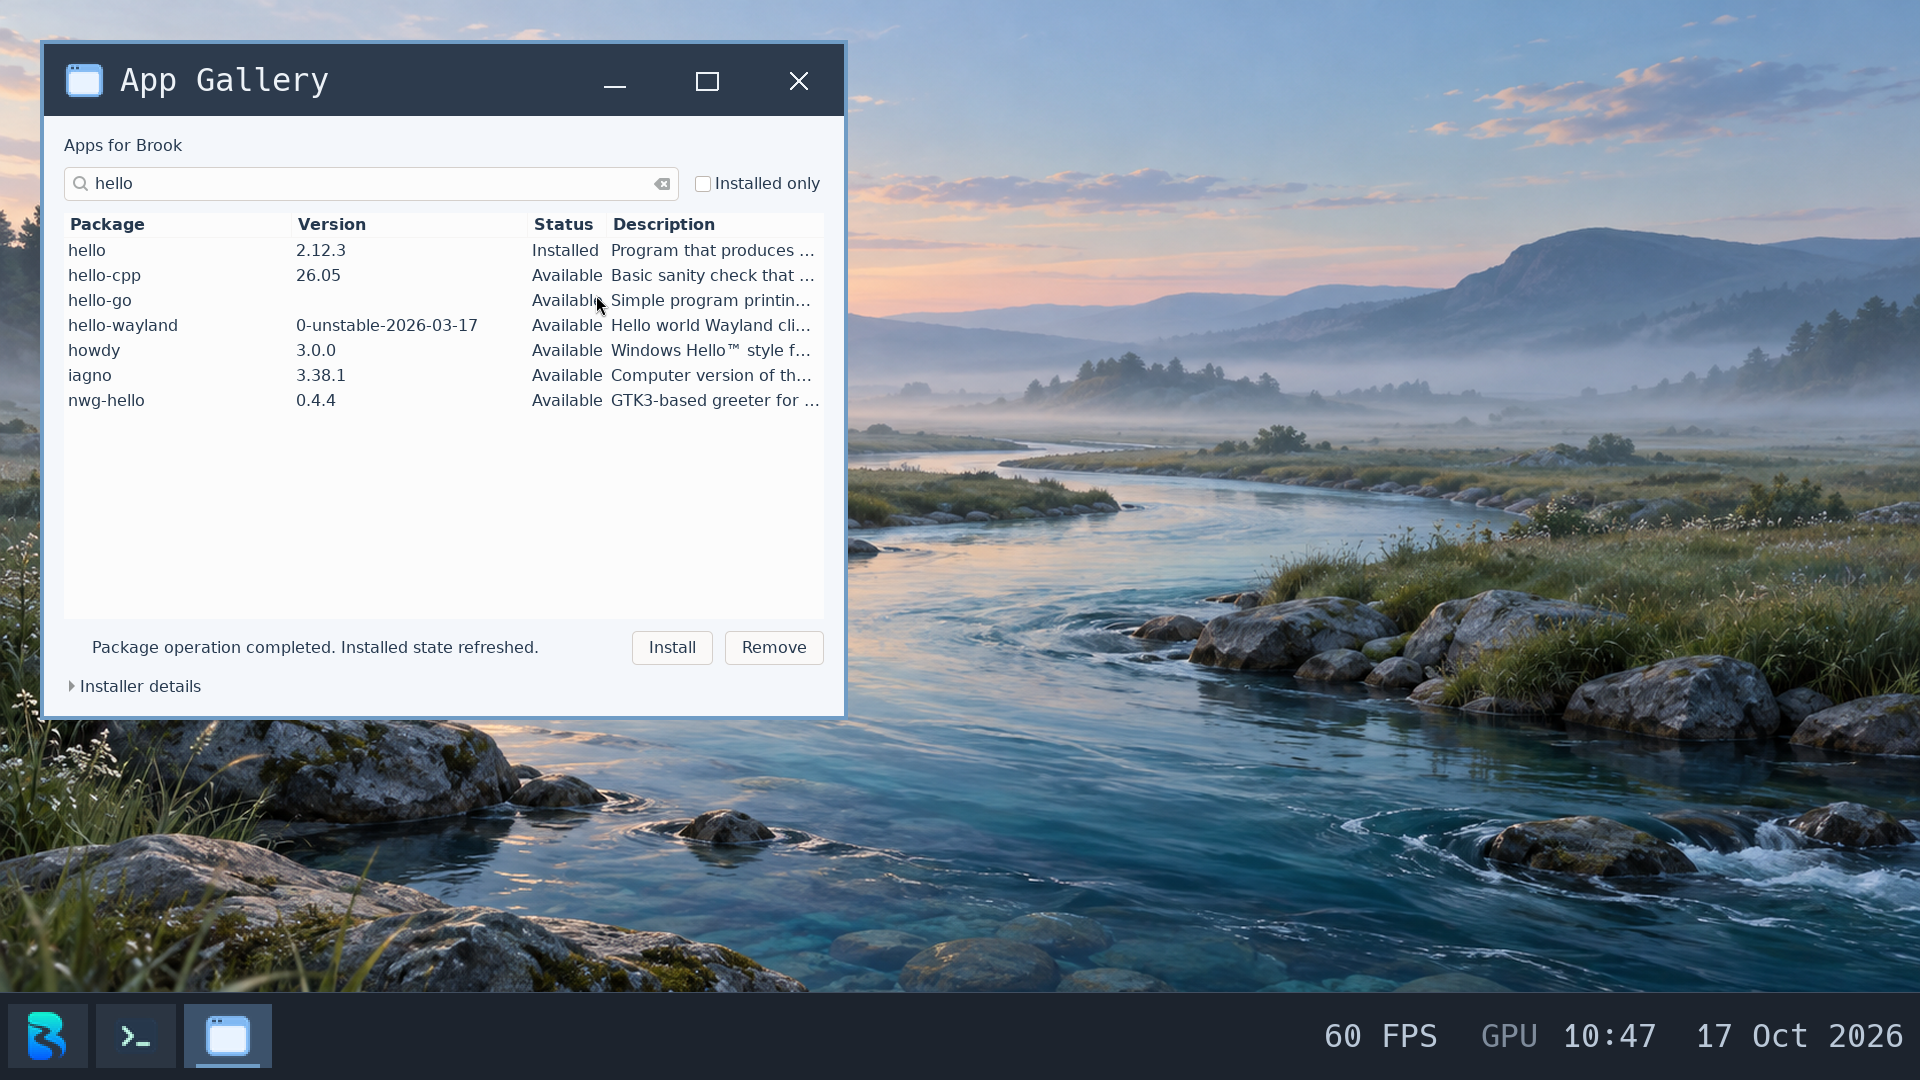
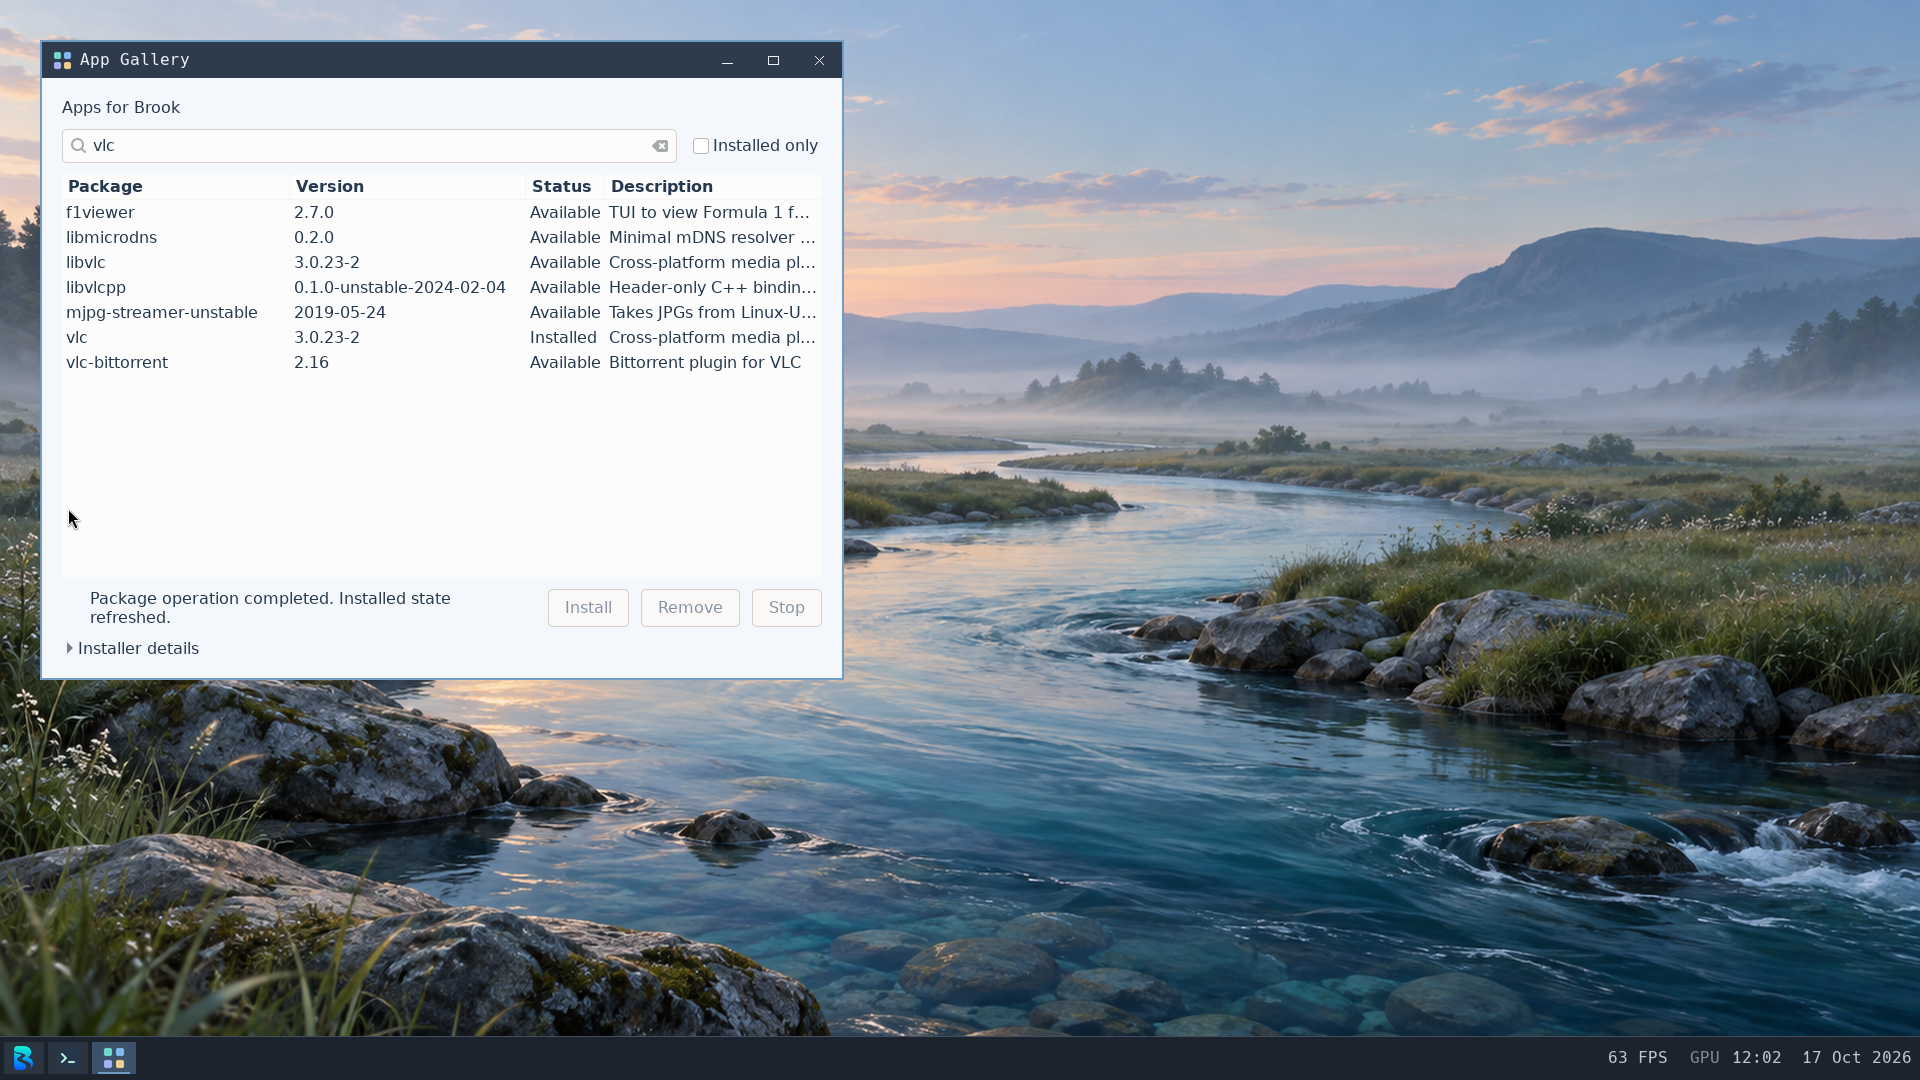
Validate fresh Gallery installs and require application binaries for shortcuts

diff --git a/docs/app-gallery.md b/docs/app-gallery.md
@@ -8,7 +8,7 @@ the matching count tells the user when to refine the search. Installer output
 streams into a bounded details panel, and completion reloads the manifest.
 Packages installed locally but absent from the index remain discoverable.
 
-![App Gallery after installing hello](images/brook_app_gallery_1080.png)
+![App Gallery after installing VLC on fresh disks](images/brook_app_gallery_1080.png)
 
 The image is an unscaled native 1920×1080 completed-frame capture. It shows a
 real install from the binary cache, rather than a mockup.
@@ -52,8 +52,8 @@ In Brook, use its installed App Gallery entry, or:
 run /nix/profile/bin/brook-run /nix/bin/brook-gallery
 ```
 
-The current live tests staged the new package closure onto isolated existing
-disks. Full fresh-image menu/icon deployment remains to be exercised.
+Initial live tests staged the new package closure onto isolated existing disks.
+Fresh data/Nix image deployment was subsequently checked below.
 
 ## Acceptance on 17 October 2026
 
@@ -145,12 +145,54 @@ discarding also retain earlier limitations. The syscall does not claim to fix
 those wider signal semantics. Its partial-size contract follows the
 [Linux implementation](https://raw.githubusercontent.com/torvalds/linux/master/kernel/signal.c).
 
+## Fresh disks and larger packages
+
+On 17 October, the repository's `create_experiment_disks.py` built new 32 GiB
+Nix and 8 GiB data images with a 481-path profile and current installer sources,
+without game data. The acceptance boot disk and matched kernel/modules were
+reused; this was not a rebuild of the entire boot disk. Session
+`793aa3cdeed44930ad08184fe49b2b86` launched Gallery from its generated menu
+entry, with its icon on the launcher, taskbar and native caption. The empty
+manifest correctly reported zero registered packages; bundled components are
+not yet registered as removable packages.
+
+Gallery installed stock VLC 3.0.23-2 from the HTTPS cache. Store entries grew
+from 481 to 851; completion was observed within 329 seconds (an upper bound,
+not an exact timed benchmark). The executable reported its version. The stock
+package lacks OSS options required by `brook-vlc`; its UI opened and closed
+cleanly with explicit `--aout=dummy`. `--no-audio` alone still initializes
+PulseAudio and hit the previously observed mutex-unlock abort. Registration
+persisted across reboot. New shortcut requirements check the real VLC,
+Ladybird and LibreOffice binaries as well as their wrappers; the rebooted menu
+hid absent Ladybird while retaining installed applications.
+
+A short 2-second CPU capture contained 1,613 samples across eight CPUs: 87.5%
+idle, 4.4% in block-I/O leaf routines and 1.9% in TLB barriers. This is one
+phase of the installation, not wall-time attribution. The profile and
+unscaled captures remain under ignored `build/workloads/gallery-fresh-20261017/`.
+
+Session `52efde0bc3d641e994de61a7d1068f93` then installed the existing
+`vlc-brook-native` build through Gallery using its exported local cache and an
+added index row. It played the attributed 720p Big Buck Bunny fixture on eight
+vCPUs/4 GiB, with advancing video and nonzero captured OSS PCM. Pause produced
+no active audio stream; resume restored nonzero PCM. Both manifest rows were
+UID 1000 and the mutation lock was absent. Closing the player reproduced a
+known worker page fault and left eleven VLC tasks blocked. After preserving
+evidence, maintenance SIGKILL reclaimed the group. Both runs passed checked
+shutdown and all three offline filesystem checks. Playback success does not
+establish clean close or simultaneous-install stability.
+
+The compatibility cache/index and video were supplied as explicit test inputs
+after the initial fresh-image run; they are not automatically included by the
+default disk script. Stock/native package file ownership and removal conflicts
+remain part of the shared-profile work below.
+
 ## Remaining work
 
 - Disk-full and interrupted-install recovery across the whole profile. Atomic
   manifest publication alone does not transact symlinks and launcher metadata.
 - Dependency/shared-file removal ownership and base-image package registration.
-- Successful repair, large-package installs, launcher icon/menu refresh and
-  complete fresh-image/reboot acceptance through the Gallery.
+- Large-application repair/removal, icons for packages installed in the guest,
+  automatic compatibility-package sources and broader fresh-image acceptance.
 - Persisted desktop themes in GTK, richer app descriptions/icons, and broader
   real-application acceptance. Current styling is a first readable interface.

diff --git a/README.md b/README.md
@@ -61,7 +61,7 @@ the table distinguishes tested behavior from remaining limitations.
 | [Qalculate!](https://qalculate.github.io/) | — | ✅ Working | GTK3 calculator via Wayland (CSD decorations) |
 | [GIMP](https://www.gimp.org/) | 3.0.8 | ⚠ Experimental | Painting, XCF save/reopen and PNG export/import verified; Brook-owned legacy profile, settings and saved images verified across reboot; optional plugin discovery still has faults |
 | [LibreOffice](https://www.libreoffice.org/) | 25.8.5.2 | ⚠ Experimental | Writer opens via Wayland and edits a real document; startup is slow and window-close behavior needs work |
-| [VLC](https://www.videolan.org/vlc/) | 3.0.23-2 | ⚠ Experimental | Brook compatibility build installs through guest `nix-install`; 720p video and OSS audio verified; window-close/SMP stability remains under investigation |
+| [VLC](https://www.videolan.org/vlc/) | 3.0.23-2 | ⚠ Experimental | Gallery install, 720p video and captured OSS audio passed on eight vCPUs; close still faults a worker and requires cleanup |
 
 ## Recent progress
 
@@ -101,6 +101,7 @@ the table distinguishes tested behavior from remaining limitations.
   packages from the shared desktop profile. A real install, executable launch,
   reboot persistence and removal passed as Brook. Stop and close-during-install
   finish the active archive safely; cancelled downloads can be reused on retry.
+  Fresh-image launcher deployment and a larger VLC install also passed.
   See [Gallery status](docs/app-gallery.md)
   for recovery and deployment work still open.
 - **VM control bridge:** VM-only screenshots and input, guest command launches,
@@ -251,10 +252,10 @@ New captures use native 1920×1080 without upscaling. See
 <p align="center"><em>LibreOffice Writer 25.8.5.2 editing a document through Wayland — native 1920×1080 capture, with no automatically opened debug windows</em></p>
 
 <p align="center">
-  <a href="docs/images/brook_app_gallery_1080.png"><img src="docs/images/brook_app_gallery_1080.png" alt="Brook App Gallery after installing hello from the Nix binary cache" width="1280"></a>
+  <a href="docs/images/brook_app_gallery_1080.png"><img src="docs/images/brook_app_gallery_1080.png" alt="Brook App Gallery after installing VLC from the Nix binary cache on fresh disks" width="1280"></a>
 </p>
 
-<p align="center"><em>App Gallery searching the package index after a real install as Brook — native 1920×1080 capture; click for full-size text</em></p>
+<p align="center"><em>App Gallery after installing VLC as Brook on freshly generated disks — native 1920×1080 capture; click for full-size text</em></p>
 
 <p align="center">
   <a href="docs/images/brook_boot_logo_1080.png"><img src="docs/images/brook_boot_logo_1080.png" alt="Brook's new blue and teal river B mark on its actual boot progress screen" width="800"></a>

diff --git a/docs/backlog.md b/docs/backlog.md
@@ -334,6 +334,32 @@ initial bottom-strip/full-frame corruption diagnosis. Window-close still
 faulted a VLC worker after that fix (`2efcc298b41a4c4494a1367c2143c964`), so
 shutdown and SMP startup remain open. The prepared launcher uses one vCPU.
 
+17 October fresh-image follow-up (`52efde0bc3d641e994de61a7d1068f93`): Gallery
+installed the compatibility VLC build; eight-vCPU/4-GiB playback, nonzero OSS
+PCM and pause/resume passed. Native close, without concurrent installation,
+reproduced RIP `0x1e45703f` (CR2 `0x3520`) in worker PID 27/TGID 11. The window
+and audio disappeared but eleven VLC tasks remained blocked. Brook's user-fault
+handler terminates the whole group only for leader faults; worker-fault group
+termination is a separate containment gap. Maintenance SIGKILL reclaimed all
+VLC tasks, then checked shutdown and all three filesystem checks passed.
+`/proc/11/maps` currently emits only heap/stack, so it cannot resolve shared
+libraries; expand mapping diagnostics as part of this investigation. The full
+fault bytes match `libwayland-client.so.0.24.0` in the exact cached closure at
+file/ELF offset `0x903f`, `wl_proxy_marshal_flags+0xbf`; preserve that binary
+association when resolving the request being marshalled. The proxy's interface
+method pointer is invalid at the fault; its lifetime/corruption cause remains
+unproven. Evidence: ignored
+`build/workloads/gallery-fresh-20261017/native-close-full-serial.log`.
+
+The same install emitted “real strand” scheduler warnings but completed. Astra
+review found that the detector combines process state, ready-queue and trace
+observations under separate locks, and the printed trace shows fresh RUN/BLOCK
+progress between samples. This is not proof of a lost wakeup. Backlog a coherent
+snapshot with incarnation and a scheduling-progress sequence, accounting for
+deferred wake/requeue handoff; print after releasing locks and avoid claiming
+persistence from repeated PIDs alone. No scheduler behavior change is justified
+by this diagnostic alone.
+
 ### Browser performance follow-up
 
 14 October measurements and artifacts are recorded in

diff --git a/tools/vlc-brook-pkg/README.md b/tools/vlc-brook-pkg/README.md
@@ -32,7 +32,11 @@ for installation only. The installed package launches from the guest's own
 store afterwards. `BROOK_AUDIODEV=none` on the host launcher keeps speakers
 silent while retaining the guest HDA device and bridge WAV capture.
 
-The validated playback configuration currently uses `BROOK_SMP=1`. Four-vCPU
-startup can still fail descriptor duplication. Closing VLC during a concurrent
-package installation also produced a worker fault; keep installs and playback
-separate for now. See REC-03/REC-04 in `docs/backlog.md` for the evidence.
+An eight-vCPU, 4 GiB run on 17 October installed this package through Gallery,
+played 720p video, captured nonzero OSS audio, paused and resumed. This improves
+on the earlier one-vCPU baseline; it does not resolve intermittent SMP startup
+failures across repeated runs. Close still reproduced the known worker fault
+at RIP `0x1e45703f`, now without a concurrent install, leaving peer tasks alive.
+Maintenance SIGKILL reclaimed the group before checked shutdown and clean
+filesystem checks. Keep installs and playback separate; see REC-03/REC-04 in
+`docs/backlog.md` and the [fresh Gallery acceptance](../../docs/app-gallery.md).

diff --git a/docs/experiments.md b/docs/experiments.md
@@ -42,13 +42,13 @@ nix-shell --run 'python3 scripts/create_experiment_disks.py --q2-dir build/exper
 ```
 
 This creates `build/experiments/seeds/data.img` (16 GiB), `nix.img` (32 GiB),
-and `manifest.json`. Images are sparse; the initial assets and 477-path
+and `manifest.json`. Images are sparse; the initial assets and approximately 481-path
 closure use about 5.2 GiB of host storage. An existing output is never
 overwritten; choose another `--output` directory to rebuild.
 
 `nix/experiment-packages.nix` uses the repository's package pin. The profile
 contains Bash, coreutils, curl, Python, ffmpeg, Wayland, the Brook player,
-file browser and calculator, LibreOffice, GIMP, Mousepad, Qalculate, fonts,
+file browser, App Gallery and calculator, LibreOffice, GIMP, Mousepad, Qalculate, fonts,
 cursors, both yquake2 builds, and an OSS-enabled OpenAL library. Launchers
 receive their actual dependency paths from Nix rather than hardcoded hashes.
 
